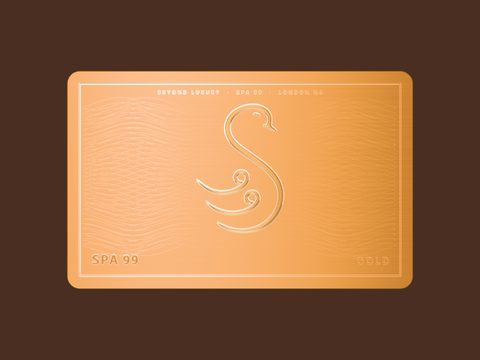
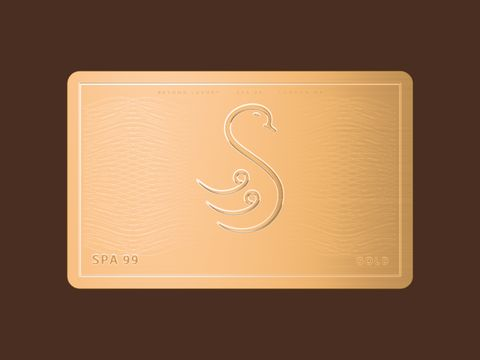
Gold Card: champagne face, dark bronze back, clean engraving; header blur fix

diff --git a/common/static/common/js/gold-card-3d.js b/common/static/common/js/gold-card-3d.js
@@ -11,9 +11,9 @@
 import * as THREE from '../vendor/three/three.module.min.js';
 
 const W = 85.6, H = 54, R = 3.18, BEV = 0.18, DEPTH = 0.44;       // millimetres: ISO ID-1
-const FW = 1024, FH = 646, BW = 512, BH = 323;                    // face and back map sizes
+const FW = 1024, FH = 646, BW = 1024, BH = 646;                    // face and back map sizes
 const D2R = Math.PI / 180;
-const WALL = 0.8;                                                 // brightness of the studio walls (the floor of the card's light)
+const WALL = 0.9;                                                // brightness of the studio walls (the floor of the card's light)
 const idle = (fn) => new Promise((resolve) => (window.requestIdleCallback ? requestIdleCallback(() => resolve(fn()), { timeout: 800 }) : setTimeout(() => resolve(fn()), 0)));
 
 function roundedRect(w, h, r) {
@@ -184,19 +184,19 @@ export function create(mount, { gsap, tokens, card }) {
     }));
     const fine = await idle(() => {
       const fw = W - 2 * BEV, wing = (x, y) => 1 - Math.max(0, Math.min(1, (x - 0.24 * fw) / (0.17 * fw))) * Math.max(0, Math.min(1, (0.76 * fw - x) / (0.17 * fw)));   // 1 in the wings, 0 behind the swan
-      const lines = mask(FW, FH, (ctx) => detail(ctx, ppm, { wings: true })), edge = mask(FW, FH, (ctx) => detail(ctx, ppm, { groove: true, micro: true }));
+      const lines = mask(FW, FH, (ctx) => detail(ctx, ppm, { wings: true })), edge = mask(FW, FH, (ctx) => detail(ctx, ppm, { groove: true })), micro = mask(FW, FH, (ctx) => detail(ctx, ppm, { micro: true }));
       for (let i = 0; i < lines.length; i++) lines[i] *= wing(((i % FW) / ppm), 0);
-      return { lines, edge };
+      return { lines, edge, micro };
     });
     const height = await idle(() => {
       const raw = new Float32Array(swanMask.length), thin = new Float32Array(swanMask.length);
-      for (let i = 0; i < raw.length; i++) { raw[i] = swanMask[i] - 0.22 * textMask[i]; thin[i] = -0.3 * fine.edge[i] - 0.1 * fine.lines[i]; }
+      for (let i = 0; i < raw.length; i++) { raw[i] = swanMask[i] - 0.22 * textMask[i] - 0.1 * fine.micro[i]; thin[i] = -0.3 * fine.edge[i] - 0.1 * fine.lines[i]; }   // engraved words: a shallow cut; the read comes from the ink (metalness) map, so no lit outline
       const soft = blur(raw, FW, FH, 2), crisp = blur(thin, FW, FH, 1);
       for (let i = 0; i < soft.length; i++) soft[i] += crisp[i];
       return soft;
     });
     maps.faceNormal = canvasTexture(await idle(() => normalCanvas(height, FW, FH, 4.2)));
-    const rc = await idle(() => roughCanvas(FW, FH, 0.21, { smooth: blur(swanMask, FW, FH, 1), smoothV: 0.1, rough: blur(textMask, FW, FH, 1), roughV: 0.3, dark: 0.95 }));
+    const rc = await idle(() => roughCanvas(FW, FH, 0.21, { smooth: blur(swanMask, FW, FH, 1), smoothV: 0.1, rough: blur(textMask.map((v, i) => Math.max(v, fine.micro[i])), FW, FH, 1), roughV: 0.3, dark: 0.95 }));
     maps.faceRough = canvasTexture(rc);
     own(maps.faceNormal); own(maps.faceRough);
   }
@@ -207,6 +207,7 @@ export function create(mount, { gsap, tokens, card }) {
       const s = (4 * ppm) / 484;                                    // each swan 4 mm tall
       for (let row = -1; row < H / 12 + 1; row++) for (let col = -1; col < W / 10 + 1; col++) {
         const x = (col + (row % 2 ? 0.5 : 0)) * 10 * ppm, y = row * 12 * ppm;
+        if (y > 40 * ppm) continue;                                  // a clear band under the pattern for the engraved words
         fillPaths(ctx, swan, [s, 0, 0, s, x + 2 * s, y + 2 * s]);
       }
     }));
@@ -216,11 +217,11 @@ export function create(mount, { gsap, tokens, card }) {
     }));
     const height = await idle(() => {
       const raw = new Float32Array(pat.length);
-      for (let i = 0; i < raw.length; i++) raw[i] = -0.5 * pat[i] - 0.7 * words[i];
-      return blur(raw, BW, BH, 1);
+      for (let i = 0; i < raw.length; i++) raw[i] = 0.5 * pat[i] - 0.12 * words[i];   // the swans are embossed (raised, a little lighter); the words are a shallow cut
+      return blur(raw, BW, BH, 2);
     });
-    maps.backNormal = canvasTexture(await idle(() => normalCanvas(height, BW, BH, 2.6)));
-    maps.backRough = canvasTexture(await idle(() => roughCanvas(BW, BH, 0.45, { rough: blur(words, BW, BH, 1), roughV: 0.55 })));
+    maps.backNormal = canvasTexture(await idle(() => normalCanvas(height, BW, BH, 3.2)));
+    maps.backRough = canvasTexture(await idle(() => roughCanvas(BW, BH, 0.42, { smooth: blur(pat, BW, BH, 2), smoothV: 0.2, rough: blur(words, BW, BH, 1), roughV: 0.3, dark: 0.9 })));
     own(maps.backNormal); own(maps.backRough);
   }
 
@@ -251,14 +252,14 @@ export function create(mount, { gsap, tokens, card }) {
       const m = new THREE.Mesh(new THREE.PlaneGeometry(w, h), new THREE.MeshBasicMaterial({ color: tok(hex).multiplyScalar(k) }));
       m.position.set(x, y, z); m.lookAt(0, 0, 0); studio.add(m);
     };
-    studio.add(new THREE.Mesh(new THREE.BoxGeometry(10, 6, 10), new THREE.MeshBasicMaterial({ color: tok('--color-gold-light').multiplyScalar(WALL), side: THREE.BackSide })));   // warm walls: the face never meets black
+    studio.add(new THREE.Mesh(new THREE.BoxGeometry(10, 6, 10), new THREE.MeshBasicMaterial({ color: tok('--color-gold-studio').multiplyScalar(WALL), side: THREE.BackSide })));   // warm walls: the face never meets black
     part(2.6, 0.9, '--color-led', 1.5, -2.5, 2.4, 3);        // key softbox
-    part(0.2, 5, '--color-cream', 3.5, 0, 0, 4.5);         // the sheen strip
+    part(0.2, 5, '--color-gold-studio', 3.5, 0, 0, 4.5);         // the sheen strip
     part(0.15, 4, '--color-led', 5, 4, 0.5, -1);         // rim strip
-    part(1.6, 4, '--color-gold-light', 1.1, -4.6, 0, 0.5); part(1.6, 4, '--color-gold-light', 1.1, 4.6, 0, 1);   // side fills: a soft panel is always in reach at grazing angles
-    part(5, 5, '--color-gold-light', 1.2, 0, 2.9, 0.5);  // overhead fill
-    part(6, 3, '--color-gold-light', 1.6, 0, 0, -4.6);   // behind: lights the back of the card
-    const floor = new THREE.Mesh(new THREE.PlaneGeometry(8, 8), new THREE.MeshBasicMaterial({ color: tok('--color-cream').multiplyScalar(0.4) }));
+    part(1.6, 4, '--color-gold-studio', 1.4, -4.6, 0, 0.5); part(1.6, 4, '--color-gold-studio', 1.4, 4.6, 0, 1);   // side fills: a soft panel is always in reach at grazing angles
+    part(5, 5, '--color-gold-studio', 1.1, 0, 2.9, 0.5);  // overhead fill
+    part(6, 3, '--color-gold-studio', 1.6, 0, 0, -4.6);   // behind: lights the back of the card
+    const floor = new THREE.Mesh(new THREE.PlaneGeometry(8, 8), new THREE.MeshBasicMaterial({ color: tok('--color-gold-studio').multiplyScalar(0.3) }));
     floor.rotation.x = -Math.PI / 2; floor.position.y = -2.9; studio.add(floor);
     pmrem = new THREE.PMREMGenerator(renderer);
     const rt = pmrem.fromScene(studio, 0.02);
@@ -270,20 +271,23 @@ export function create(mount, { gsap, tokens, card }) {
 
   /* --- scene --- */
   function buildScene() {
-    const gold = tok('--color-gold-metal');
+    const gold = tok('--color-gold-metal').lerp(tok('--color-gold-light'), 0.6);   // champagne: lit by a neutral warm studio it stays soft gold (hue 33), not orange
+    const rim = tok('--color-gold-metal').lerp(tok('--color-gold-light'), 0.3);
     const edgeGeo = own(new THREE.ExtrudeGeometry(roundedRect(W - 2 * BEV, H - 2 * BEV, R - BEV), { depth: DEPTH, bevelEnabled: true, bevelThickness: BEV, bevelSize: BEV, bevelSegments: 3, curveSegments: 10 }));
     edgeGeo.translate(0, 0, -DEPTH / 2);
     const zf = DEPTH / 2 + BEV + 0.004;
     maps.draw = own(canvasTexture(drawCanvas, { color: true }));
-    mats.edge = own(new THREE.MeshPhysicalMaterial({ color: gold, metalness: 1, roughness: 0.2 }));
+    mats.edge = own(new THREE.MeshPhysicalMaterial({ color: rim, metalness: 1, roughness: 0.2 }));
     mats.face = own(new THREE.MeshPhysicalMaterial({
       color: gold, metalness: 1, roughness: 1, anisotropy: 0.55, anisotropyRotation: Math.PI / 2, clearcoat: 0.35, clearcoatRoughness: 0.12,
       normalMap: maps.faceNormal, roughnessMap: maps.faceRough, metalnessMap: maps.faceRough, emissive: tok('--color-gold-light'), emissiveMap: maps.draw, emissiveIntensity: 0,
     }));
+    const bronze = tok('--color-gold-deep').lerp(tok('--color-gold-metal'), 0.22);
+    bronze.g += 0.03; bronze.b += 0.075;                                              // NeutralToneMapping takes ~0.04 off the weakest channel: a dark metal would go orange without this
     mats.back = own(new THREE.MeshPhysicalMaterial({
-      color: tok('--color-gold-deep').lerp(tok('--color-gold-shade'), 1), metalness: 1, roughness: 1, envMapIntensity: 1.9, clearcoat: 0.2, clearcoatRoughness: 0.3, normalMap: maps.backNormal, roughnessMap: maps.backRough,
+      color: bronze, metalness: 1, roughness: 1, envMapIntensity: 0.62, clearcoat: 0.2, clearcoatRoughness: 0.3, normalMap: maps.backNormal, roughnessMap: maps.backRough, metalnessMap: maps.backRough,
     }));
-    Object.assign(mats.face, { envMap: scene.environment, envMapIntensity: 0.9 }); mats.back.envMap = mats.edge.envMap = scene.environment; mats.edge.envMapIntensity = 0.6;   // per-material intensity needs the map set on the material (three r163+)
+    Object.assign(mats.face, { envMap: scene.environment, envMapIntensity: 0.5 }); mats.back.envMap = mats.edge.envMap = scene.environment; mats.edge.envMapIntensity = 0.6;   // per-material intensity needs the map set on the material (three r163+)
     const faceGeo = own(faceGeometry());
     const front = new THREE.Mesh(faceGeo, mats.face); front.position.z = zf;
     const back = new THREE.Mesh(faceGeo, mats.back); back.rotation.y = Math.PI; back.position.z = -zf;

diff --git a/common/static/common/css/scenes.css b/common/static/common/css/scenes.css
@@ -5,7 +5,7 @@
 
 /* ---------- page transitions (2.4): lights dimming between rooms, opacity only ---------- */
 @view-transition { navigation: auto; }
-.site-header { view-transition-name: site-header; }
+/* No view-transition-name on the header: it makes the header a backdrop root, so its blur layer would see nothing behind it and page content would show through at 88%. */
 ::view-transition-old(root) { animation: 240ms var(--ease-soft) both vt-out; }
 ::view-transition-new(root) { animation: var(--duration-page) var(--ease-soft) 80ms both vt-in; }
 @keyframes vt-out { to { opacity: 0; } }
@@ -255,9 +255,9 @@ html.motion .gc-stage { position: absolute; inset: 0; perspective: calc(var(--gc
 .gc-card { transform: rotateX(8deg) rotateY(-25deg); }
 .gc-front, .gc-back { position: absolute; inset: 0; border-radius: var(--gc-r); overflow: hidden; backface-visibility: hidden; -webkit-backface-visibility: hidden; }
 .gc-front { transform: translateZ(var(--gc-t)); }
-.gc-back { transform: rotateY(180deg) translateZ(var(--gc-t)); background: color-mix(in srgb, var(--color-gold-deep) 45%, var(--color-gold-shade)) url("../img/swan-pattern.svg"); background-size: calc(var(--gc-w) * 0.1168) auto; display: grid; place-items: end center; }
+.gc-back { transform: rotateY(180deg) translateZ(var(--gc-t)); background: color-mix(in srgb, var(--color-gold-deep) 75%, var(--color-gold-metal)) url("../img/swan-pattern.svg"); background-size: calc(var(--gc-w) * 0.1168) auto; display: grid; place-items: end center; }
 .gc-back::after { content: ""; position: absolute; inset: 0; background: linear-gradient(118deg, var(--color-gold-deep), transparent 55%, var(--color-gold-deep)); opacity: 0.32; }
-.gc-back-line { position: relative; z-index: 1; margin-bottom: calc(var(--gc-w) * 0.07); font-size: calc(var(--gc-w) * 0.021); letter-spacing: 0.2em; text-transform: uppercase; font-weight: 500; color: var(--color-gold-shade); }
+.gc-back-line { position: relative; z-index: 1; margin-bottom: calc(var(--gc-w) * 0.07); font-size: calc(var(--gc-w) * 0.021); letter-spacing: 0.2em; text-transform: uppercase; font-weight: 500; color: color-mix(in srgb, var(--color-gold-deep) 60%, var(--color-espresso)); text-shadow: 0 1px 0 color-mix(in srgb, var(--color-gold-light) 28%, transparent); }   /* engraved: one dark cut, one faint lit edge below */
 .gc-side { position: absolute; background: linear-gradient(to bottom, var(--color-gold-shade), var(--color-gold-light) 50%, var(--color-gold-shade)); }
 .gc-side--l, .gc-side--r { top: var(--gc-r); bottom: var(--gc-r); width: calc(var(--gc-t) * 2); }
 .gc-side--l { left: 0; transform: translateX(-50%) rotateY(90deg); }
@@ -267,7 +267,7 @@ html.motion .gc-stage { position: absolute; inset: 0; perspective: calc(var(--gc
 .gc-side--b { bottom: 0; transform: translateY(50%) rotateX(90deg); }
 .gc-metal { position: absolute; inset: 0;
   background: repeating-linear-gradient(0deg, color-mix(in srgb, var(--color-cream) 3%, transparent) 0 1px, transparent 1px 3px),
-              linear-gradient(118deg, var(--color-gold-shade) 0%, var(--color-gold-metal) 28%, var(--color-gold-light) 48%, var(--color-gold-metal) 66%, var(--color-gold-shade) 100%); }
+              linear-gradient(118deg, color-mix(in srgb, var(--color-gold-shade) 55%, var(--color-gold-metal)) 0%, color-mix(in srgb, var(--color-gold-metal) 50%, var(--color-gold-light)) 28%, var(--color-gold-light) 48%, color-mix(in srgb, var(--color-gold-metal) 50%, var(--color-gold-light)) 66%, color-mix(in srgb, var(--color-gold-shade) 55%, var(--color-gold-metal)) 100%); }   /* champagne: the brand metal lifted toward the light, ends toward the shade, never orange */
 .gc-guil { position: absolute; inset: 0; background: url("../img/guilloche.svg") center / 100% 100% no-repeat; opacity: 0.5; }
 .gc-border { position: absolute; inset: 3.5%; border-radius: calc(var(--gc-r) * 0.7); border: 1px solid color-mix(in srgb, var(--color-espresso) 28%, transparent); box-shadow: inset 0 0 0 1px color-mix(in srgb, var(--color-gold-light) 55%, transparent), 0 1px 0 color-mix(in srgb, var(--color-gold-light) 60%, transparent); }
 .gc-micro { position: absolute; left: 0; right: 0; top: 7.4%; text-align: center; font-family: var(--font-body); font-weight: 500; font-size: calc(var(--gc-w) * 0.0125); line-height: 1; letter-spacing: 0.34em; text-transform: uppercase; white-space: nowrap; color: color-mix(in srgb, var(--color-espresso) 38%, transparent); text-shadow: 0 1px 0 color-mix(in srgb, var(--color-gold-light) 50%, transparent); }

diff --git a/common/static/common/css/tokens.css b/common/static/common/css/tokens.css
@@ -134,6 +134,7 @@
   --color-gold-light: #F3D2A2;                 /* derived: polished highlight, the drawn line (hue 36) */
   --color-gold-shade: #A9763F;                 /* derived: card edge and gradient ends (hue 31) */
   --color-gold-deep: #5A3A26;                  /* derived: the back of the card (hue 23) */
+  --color-gold-studio: #FFF0D8;                /* derived: neutral warm white, the fill panels and walls of the 3D studio (keeps the metal champagne, not orange) */
   --color-led: #FFE8C8;                        /* derived: warm LED white, the key and rim light of the 3D studio */
   --gc-w: min(86vw, 24rem);                    /* derived: card width (phone); desktop below */
   --gc-tilt-max: 6deg;                         /* derived: pointer tilt cap */
